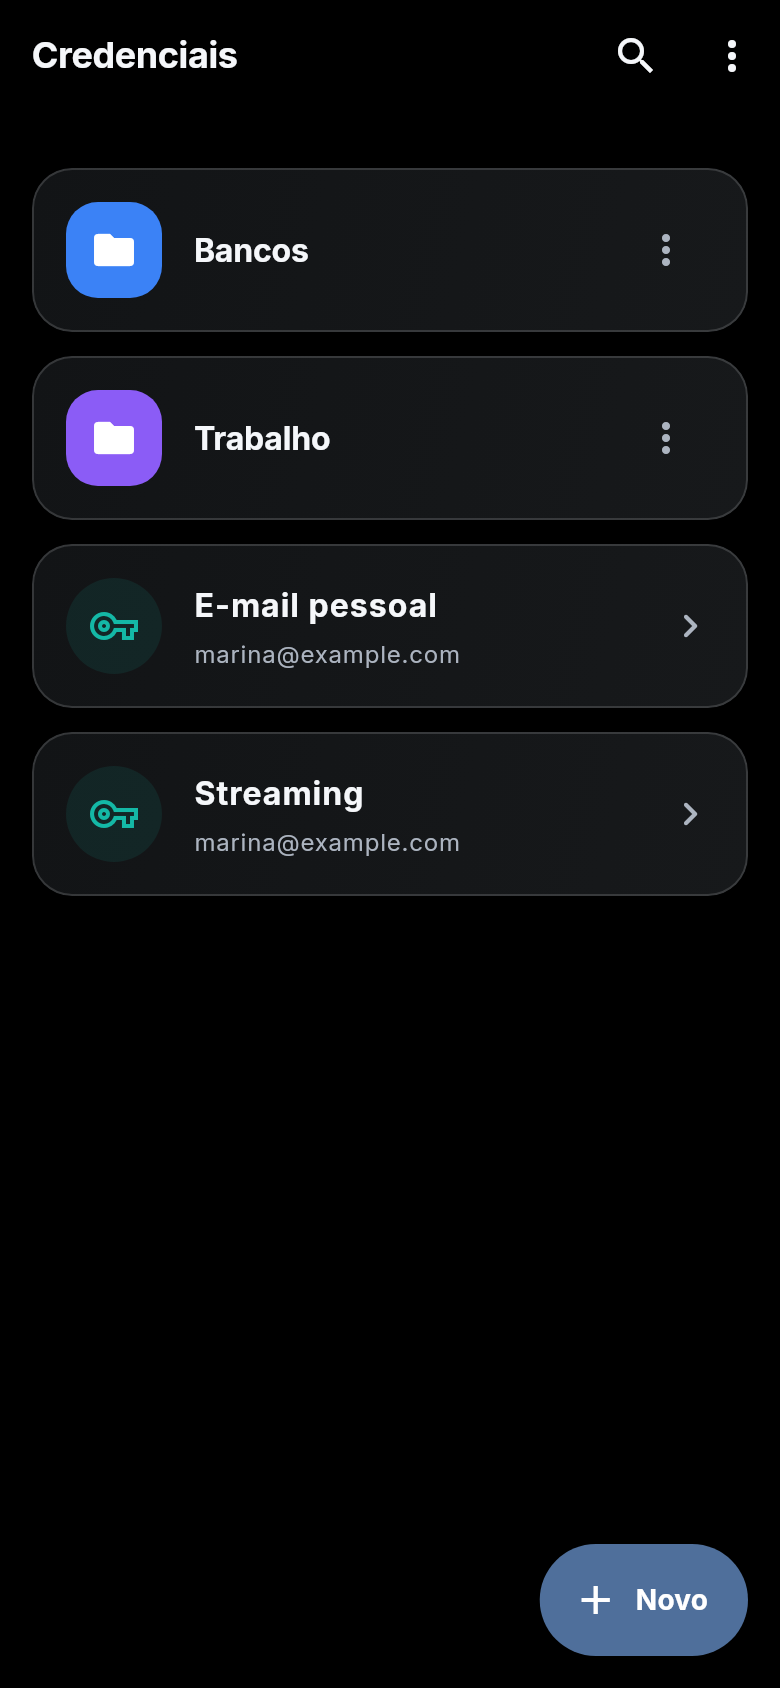
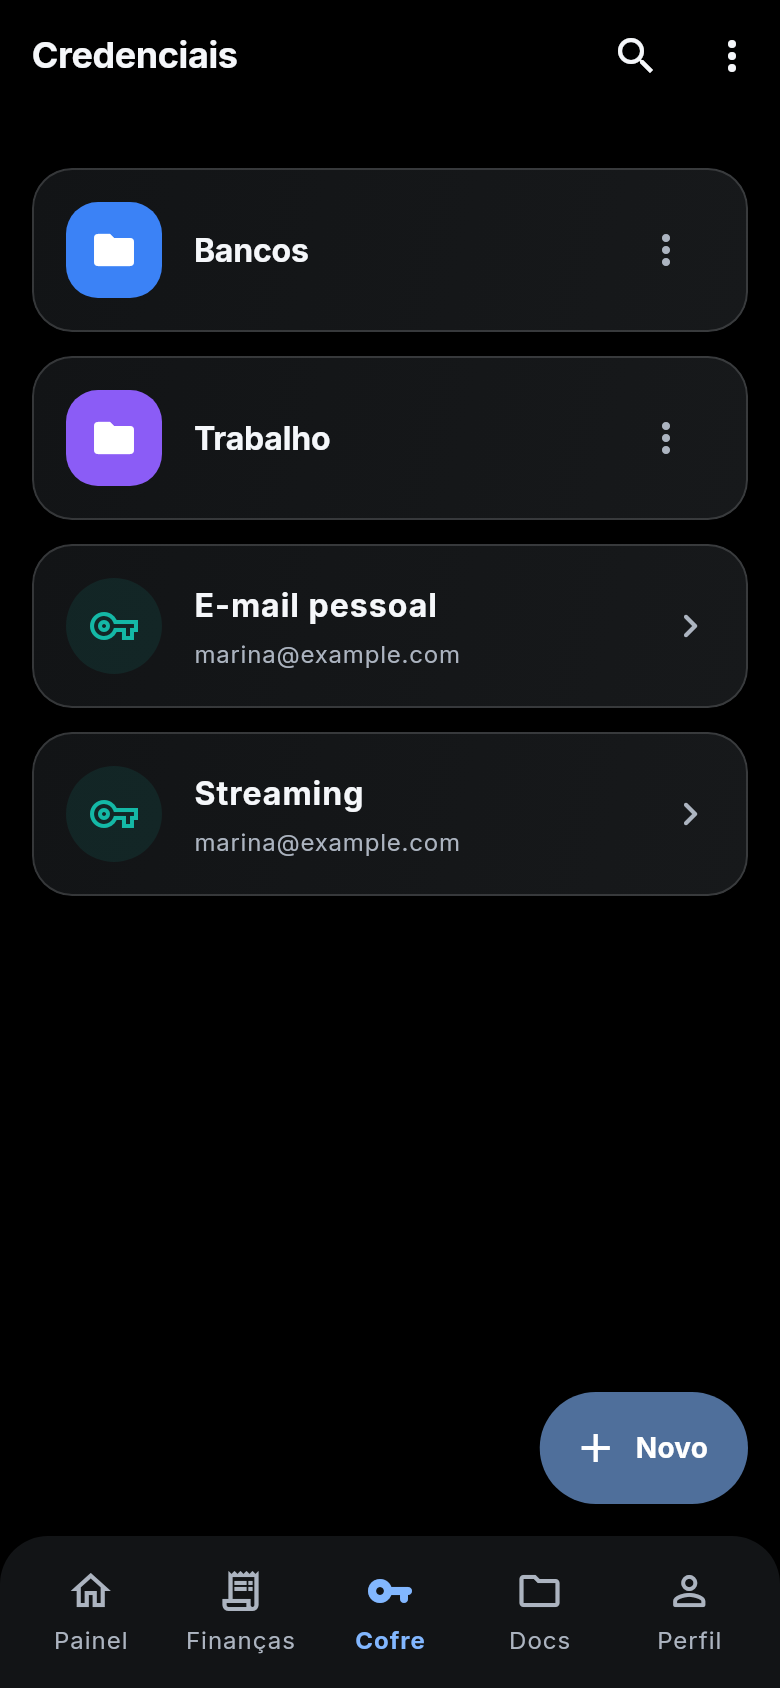
docs: show mobile navigation in app screenshots

diff --git a/README.md b/README.md
@@ -1,7 +1,5 @@
 <div align="center">
 
-# PassFin
-
 <picture>
   <source media="(prefers-color-scheme: dark)" srcset="assets/brand/passfin-lockup-dark.svg">
   <img src="assets/brand/passfin-lockup-light.svg" width="320" alt="PassFin: carteira com cédula e chave">
@@ -11,6 +9,8 @@
 [![Dart](https://img.shields.io/badge/Dart-0175C2?style=for-the-badge&logo=dart&logoColor=white)](https://dart.dev/)
 [![Firebase](https://img.shields.io/badge/Firebase-FFCA28?style=for-the-badge&logo=firebase&logoColor=black)](https://firebase.google.com/)
 [![Riverpod](https://img.shields.io/badge/Riverpod-1A73E8?style=for-the-badge&logo=dart&logoColor=white)](https://riverpod.dev/)
+[![Android](https://img.shields.io/badge/Android-3DDC84?style=for-the-badge&logo=android&logoColor=white)](https://www.android.com/)
+[![Google Drive](https://img.shields.io/badge/Google_Drive-4285F4?style=for-the-badge&logo=googledrive&logoColor=white)](https://developers.google.com/drive)
 
 **Senhas, finanças e documentos em um só lugar.**
 
@@ -35,11 +35,13 @@ A identidade visual e os arquivos da marca estão no [guia PassFin](docs/brandin
 
 Capturas de telas Flutter renderizadas com dados fictícios. Em cada par, **tema claro à esquerda** e **escuro à direita**. Clique para ampliar.
 
-### Entrada
+### Entrada e cadastro
 
 <p align="center">
   <a href="docs/branding/login-light.png"><img src="docs/branding/login-light.png" width="23%" alt="Entrada do PassFin, tema claro" /></a>
   <a href="docs/branding/login-dark.png"><img src="docs/branding/login-dark.png" width="23%" alt="Entrada do PassFin, tema escuro" /></a>
+  <a href="docs/branding/register-light.png"><img src="docs/branding/register-light.png" width="23%" alt="Cadastro no PassFin, tema claro" /></a>
+  <a href="docs/branding/register-dark.png"><img src="docs/branding/register-dark.png" width="23%" alt="Cadastro no PassFin, tema escuro" /></a>
 </p>
 
 ### Painel e metas
@@ -71,52 +73,13 @@ Capturas de telas Flutter renderizadas com dados fictícios. Em cada par, **tema
 
 ## Widgets no Android
 
-Adicione pelo **Perfil → Aparência → Widgets do celular** ou pelo seletor de widgets do Android.
-Os cinco modelos acompanham a **cor e o modo de exibição do aplicativo**, com valores ocultos por padrão.
-Usam os lançamentos salvos e recalculam os totais na virada do dia, mesmo com o app fechado; a legenda indica a data dos dados quando necessário.
+Cinco widgets Android exibem gastos, saldo e próximos pagamentos ou permitem adicionar uma despesa. As cores acompanham a aparência do aplicativo, e os valores ficam ocultos por padrão.
 
-| Widget | Tamanho sugerido |
-| --- | --- |
-| Gastos compactos | 3 × 1 |
-| Gastos do mês | 2 × 2 |
-| Resumo financeiro | 4 × 3 |
-| Próximos gastos | 3 × 2 |
-| Nova despesa | 1 × 1 |
+<p align="center">
+  <a href="docs/images/widget-selection-light-current.png"><img src="docs/images/widget-selection-light-current.png" width="23%" alt="Seleção de widgets no PassFin, tema claro" /></a>
+  <a href="docs/images/widget-selection-dark-current.png"><img src="docs/images/widget-selection-dark-current.png" width="23%" alt="Seleção de widgets no PassFin, tema escuro" /></a>
+  <a href="docs/images/widgets-light.jpg"><img src="docs/images/widgets-light.jpg" width="23%" alt="Widgets Android na versão anterior, tema claro" /></a>
+  <a href="docs/images/widgets-dark.jpg"><img src="docs/images/widgets-dark.jpg" width="23%" alt="Widgets Android na versão anterior, tema escuro" /></a>
+</p>
 
-## Tecnologias
-
-| Base | Uso |
-| --- | --- |
-| Flutter, Dart e Material 3 | Interface adaptativa e componentes compartilhados |
-| Riverpod | Estado e dependências, com código organizado por funcionalidade |
-| Firebase Authentication e Cloud Firestore | Autenticação e sincronização |
-| fl_chart, PDF e CSV | Gráficos e relatórios |
-| AES, Secure Storage e local_auth | Criptografia, armazenamento seguro e biometria |
-| Google Drive e home_widget | Documentos, backups e widgets do dispositivo |
-
-## Como Executar
-
-Use Flutter com Dart `>=3.12.0 <4.0.0`, conforme `pubspec.yaml`.
-
-```bash
-git clone https://github.com/viniciusmecosta/KeyBudget.git
-cd KeyBudget
-flutter pub get
-```
-
-Configure o Firebase seguindo o
-[guia de configuração](docs/configuracao.md). Para usar o Drive, configure também a API e o login Google.
-
-```bash
-flutter run
-```
-
-## Desenvolvimento
-
-```bash
-flutter analyze
-flutter test
-```
-
-Código em `lib/features`, com componentes comuns em `lib/core/design_system`.
-[Padrão visual](DESIGN.md) · [Widgets e personalização](docs/engineering/widgets.md)
+As duas últimas imagens mostram os widgets na versão anterior à identidade PassFin.
